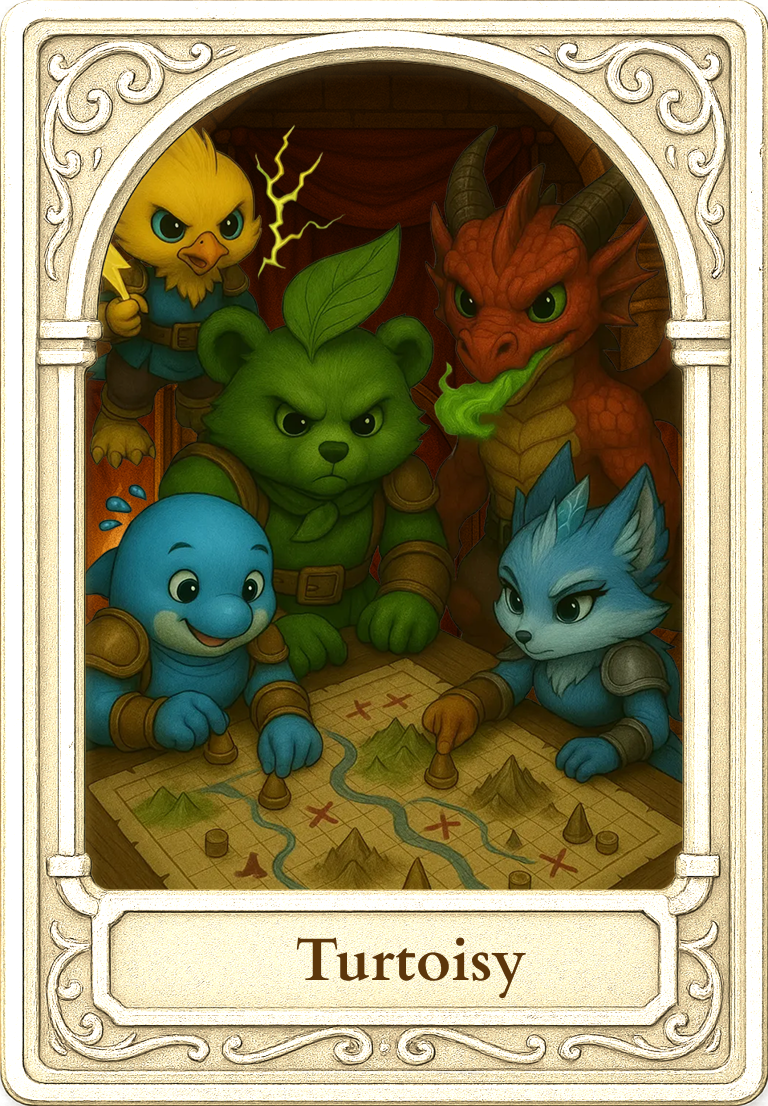
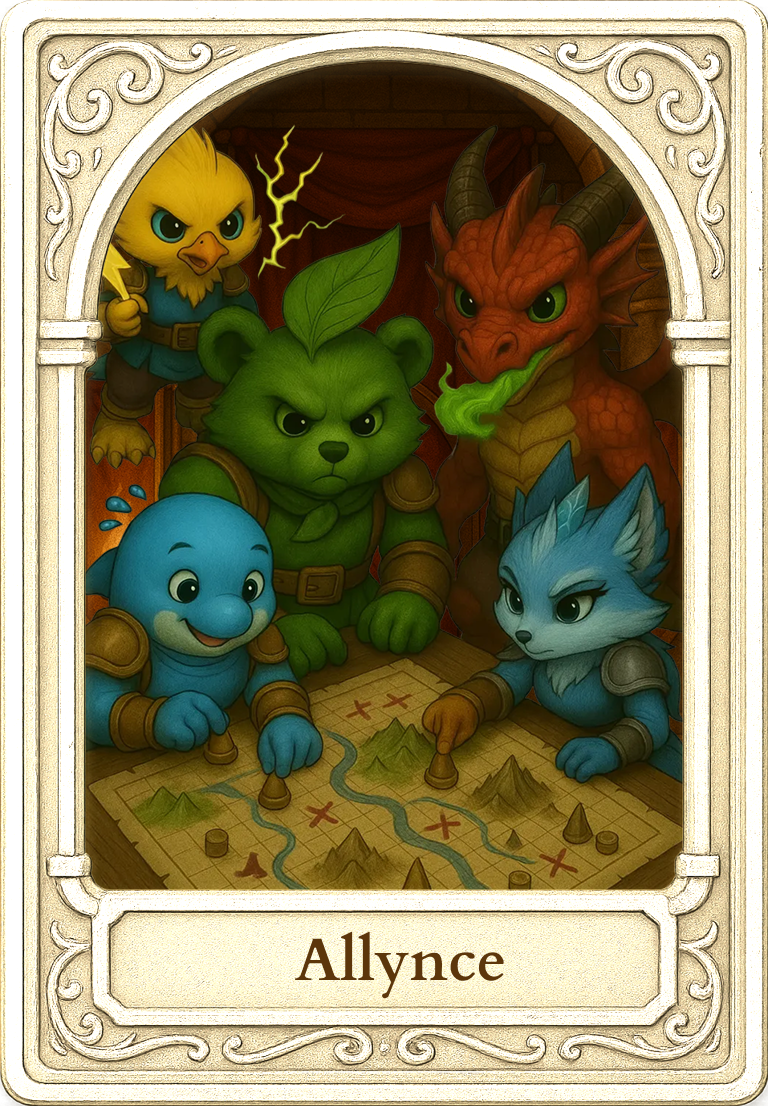
feat: Add achievement 112 (Grand Questmaster) to achievements page
- Added achievement 112 definition to fallback achievement lists
- Created new Alliance Achievements section on achievements page
- Alliance achievements (107-112) now display in their own section
- Updated achievement images 107-109 with new character card designs
- Achievement 112 tracks sending 10 quests to friends (already implemented in API)

Changed region(s): [[0.375, 0.83, 0.6875, 0.8915]]

diff --git a/app/achievements/page.tsx b/app/achievements/page.tsx
@@ -194,6 +194,18 @@ export default function Page() {
               is_hidden: false,
               unlock_condition: 'Send 10 quests to friends'
             },
+            {
+              id: '112',
+              name: 'Grand Questmaster',
+              description: 'Send 10 quests to friends and earn the title of Questmaster',
+              category: 'social',
+              difficulty: 'hard',
+              xp_reward: 500,
+              gold_reward: 100,
+              image_url: '/images/achievements/112.png',
+              is_hidden: false,
+              unlock_condition: 'Send 10 quests to friends'
+            },
             // Ally achievements (107-111)
             {
               id: '107',
@@ -252,6 +264,18 @@ export default function Page() {
               xp_reward: 150,
               gold_reward: 75,
               image_url: '/images/achievements/111.png',
+              is_hidden: false,
+              unlock_condition: 'Send 10 quests to friends'
+            },
+            {
+              id: '112',
+              name: 'Grand Questmaster',
+              description: 'Send 10 quests to friends and earn the title of Questmaster',
+              category: 'social',
+              difficulty: 'hard',
+              xp_reward: 500,
+              gold_reward: 100,
+              image_url: '/images/achievements/112.png',
               is_hidden: false,
               unlock_condition: 'Send 10 quests to friends'
             }
@@ -553,6 +577,53 @@ export default function Page() {
                             <Image
                               src={achievement.image_url}
                               alt={monsterName}
+                              fill
+                              className="object-cover"
+                            />
+                          ) : (
+                            <Image
+                              src={'/images/undiscovered.png'}
+                              alt="Undiscovered Achievement"
+                              fill
+                              className="object-cover opacity-50"
+                            />
+                          )}
+                        </div>
+                      </Card>
+                    );
+                  })}
+              </div>
+            </div>
+          )}
+
+          {/* Alliance Achievements Section */}
+          {achievementDefinitions.length > 0 && (
+            <div className="mb-8">
+              <h2 className="text-xl font-semibold text-amber-400 mb-4">Alliance Achievements</h2>
+              <div className="grid grid-cols-1 gap-6 md:grid-cols-2 lg:grid-cols-3" aria-label="alliance-achievement-cards-grid">
+                {achievementDefinitions
+                  .filter(achievement => {
+                    // Only show alliance achievements (107-112)
+                    const achievementId = parseInt(achievement.id);
+                    return achievementId >= 107 && achievementId <= 112;
+                  })
+                  .map(achievement => {
+                    if (!achievement) return null;
+                    const unlocked = isUnlocked(achievement.id);
+                    const unlockDate = getUnlockDate(achievement.id);
+
+                    return (
+                      <Card
+                        key={achievement.id}
+                        className={`${unlocked ? 'medieval-card' : 'medieval-card-undiscovered'} relative shadow-lg border-2 rounded-xl transition-all duration-300 hover:shadow-xl hover:shadow-amber-500/20 hover:scale-[1.02] h-[600px] p-0`}
+                        aria-label={`alliance-achievement-card-${achievement.id}`}
+                      >
+                        {/* Full-width/height image only */}
+                        <div className="absolute inset-0 w-full h-full">
+                          {unlocked ? (
+                            <Image
+                              src={achievement.image_url}
+                              alt={achievement.name}
                               fill
                               className="object-cover"
                             />
